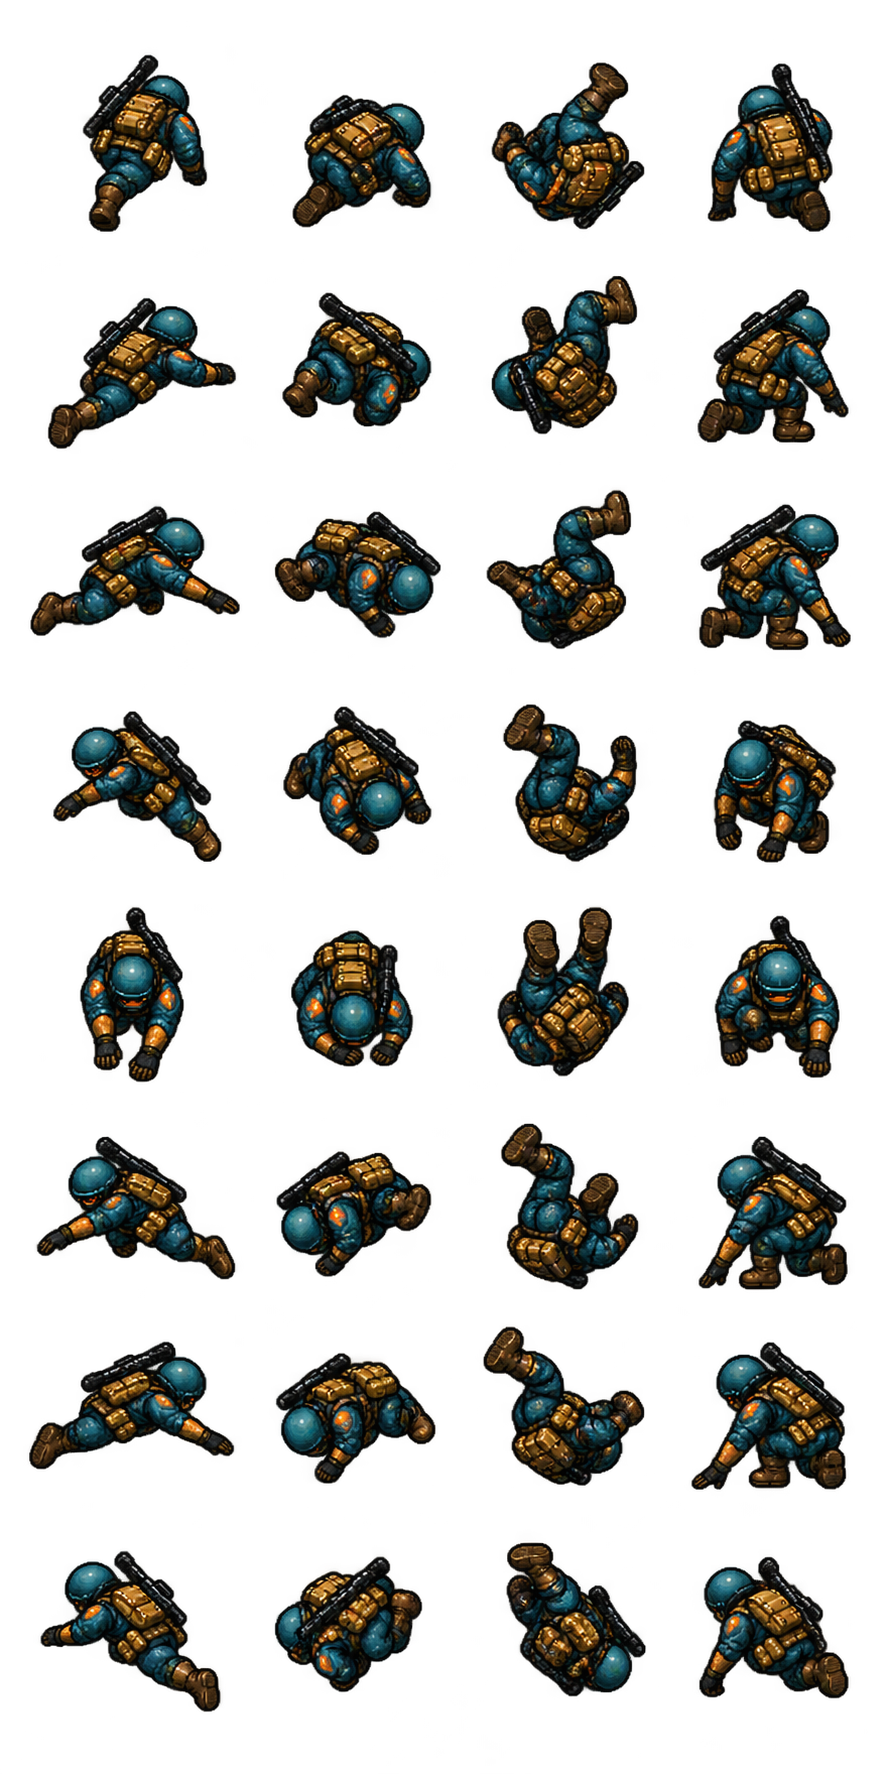
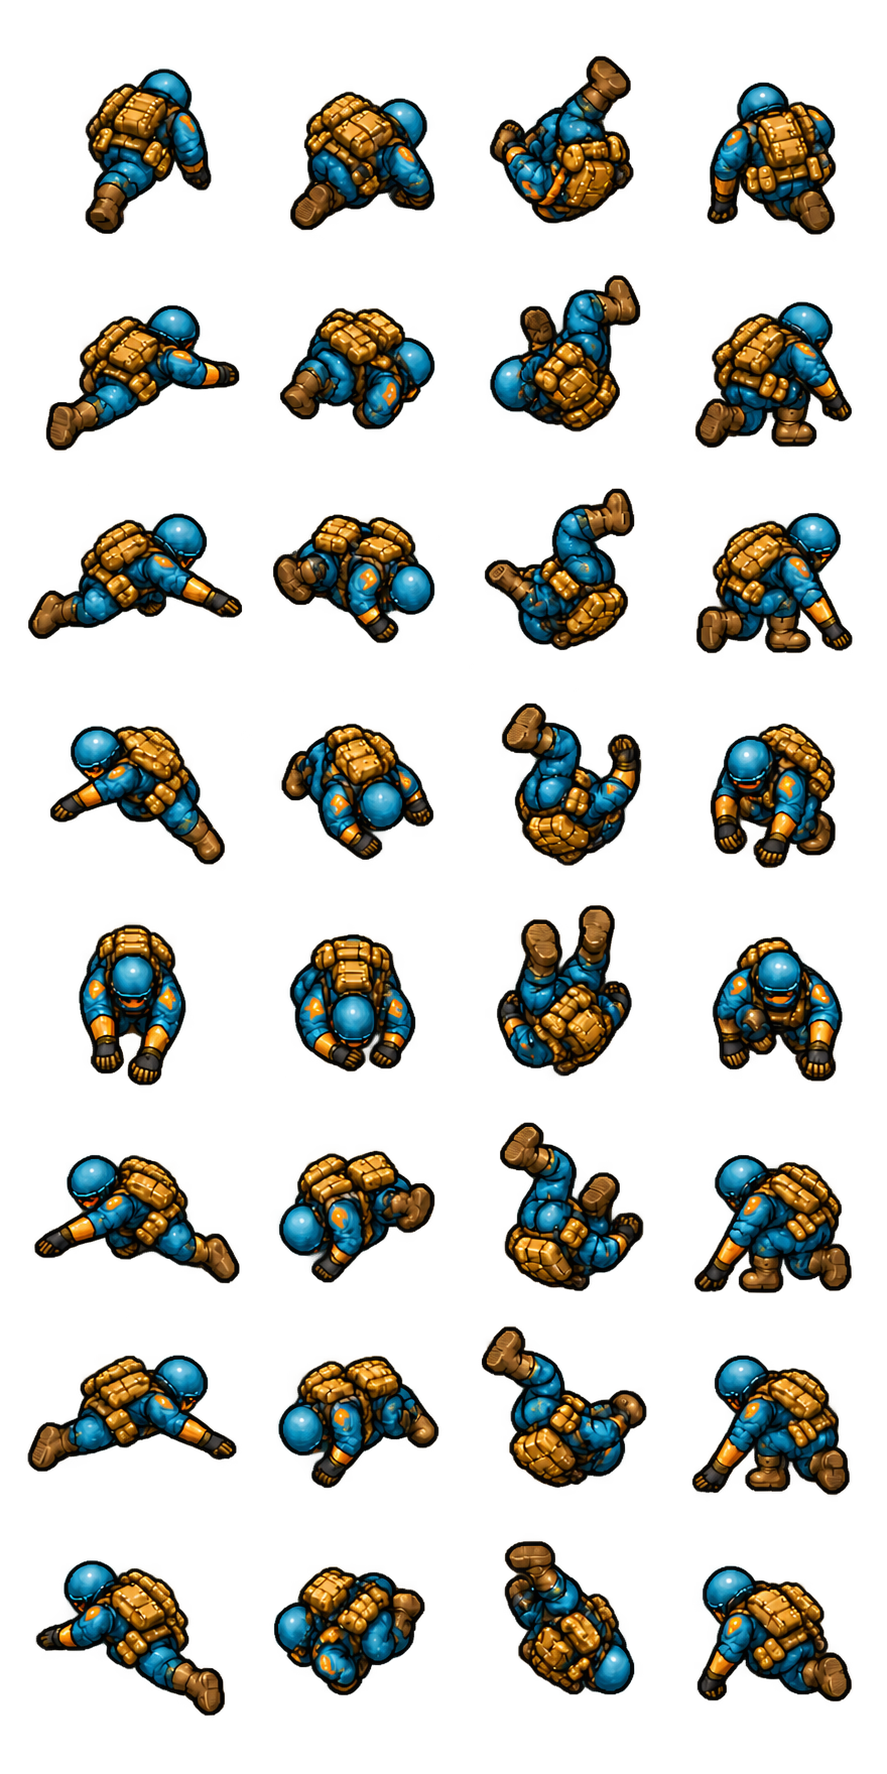
Clean dark roll artifacts and refresh sprite URLs

diff --git a/src/main.js b/src/main.js
@@ -661,7 +661,7 @@ async function boot(){
   app.ticker.maxFPS=60;
   app.canvas.style.width='100%';app.canvas.style.height='100%';$('arena').prepend(app.canvas);
   const [bg,atlas,towerArt,capArt,openCapArt,hatchArt,flameArt,blastArt,laserArt,stunLauncherArt,stunGrenadeArt,missileLauncherArt,missileArt,blueDeath,redDeath,rockArt,dodgeBlueArt,dodgeRedArt,nuclearLauncherArt,nuclearGrenadeArt,wasteArt,mushroomArt,crateArt,barrelArt]=await Promise.all([
-    ...['arena.png','sprites.png','tower-v2.png','tower-cap.png','tower-base-open.png','tower-hatch-frames.png','flames.png','explosions.png','laser-gun.png','stun-launcher-blue.png','stun-grenade-blue.png','smart-missile-launcher.png','smart-missile.png','death-blue-frames.png','death-red-frames.png','rock-barrier.png','dodge-blue.png','dodge-red.png'].map(src=>Assets.load(`${import.meta.env.BASE_URL}art/${src}`)),
+    ...['arena.png','sprites.png','tower-v2.png','tower-cap.png','tower-base-open.png','tower-hatch-frames.png','flames.png','explosions.png','laser-gun.png','stun-launcher-blue.png','stun-grenade-blue.png','smart-missile-launcher.png','smart-missile.png','death-blue-frames.png','death-red-frames.png','rock-barrier.png','dodge-blue.png?v=20261026','dodge-red.png?v=20261026'].map(src=>Assets.load(`${import.meta.env.BASE_URL}art/${src}`)),
     ...['nuclear-launcher.png','nuclear-grenade.png','nuclear-waste-frames.png','nuclear-mushroom-frames.png','breakable-crate-depth-frames.png','oil-barrel-frames.png'].map(src=>Assets.load(`${import.meta.env.BASE_URL}art/phase2/${src}`)),
   ]);
   for(const art of [bg,atlas,towerArt,capArt,openCapArt,hatchArt,flameArt,blastArt,laserArt,stunLauncherArt,stunGrenadeArt,missileLauncherArt,missileArt,blueDeath,redDeath,rockArt,dodgeBlueArt,dodgeRedArt,nuclearLauncherArt,nuclearGrenadeArt,wasteArt,mushroomArt,crateArt,barrelArt])art.source.scaleMode='nearest';
